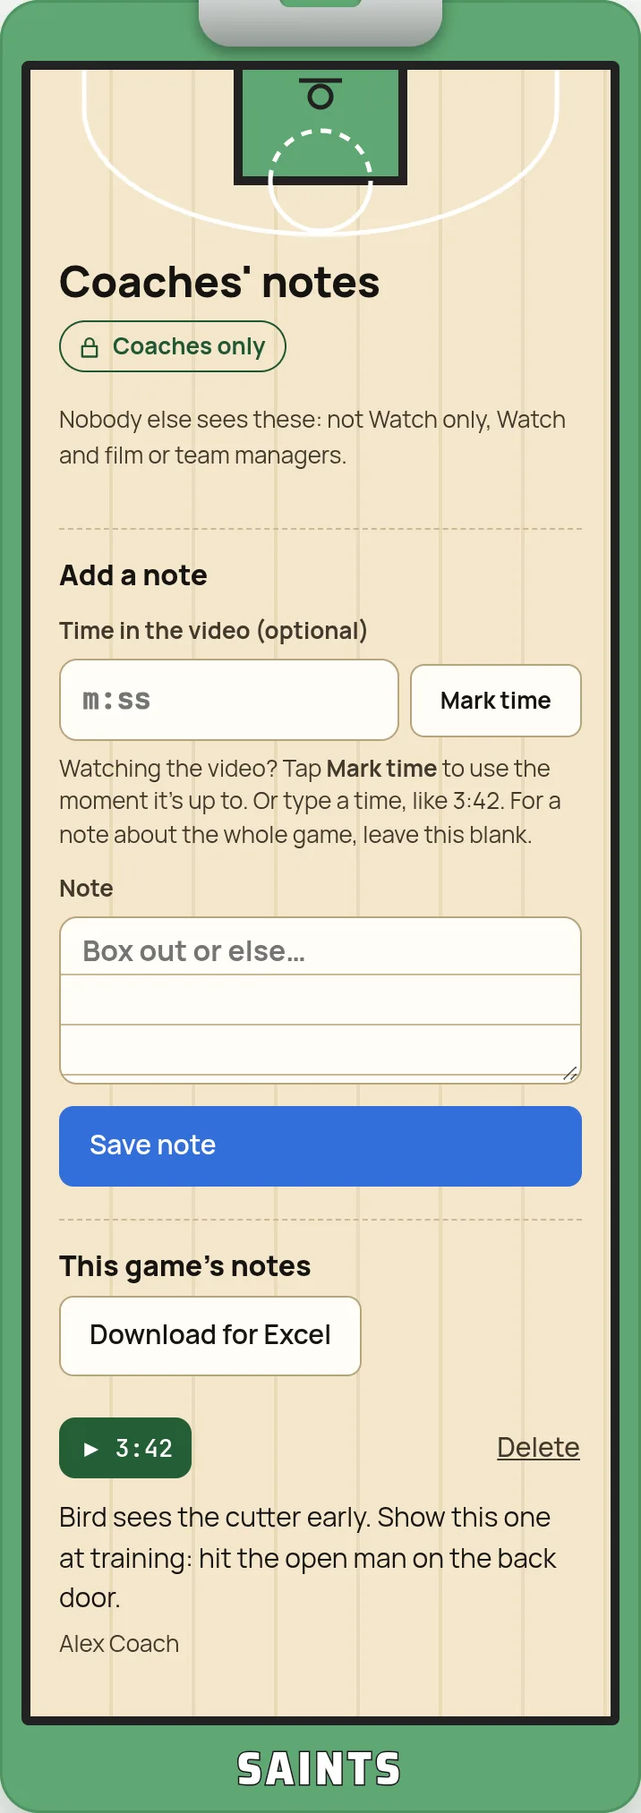
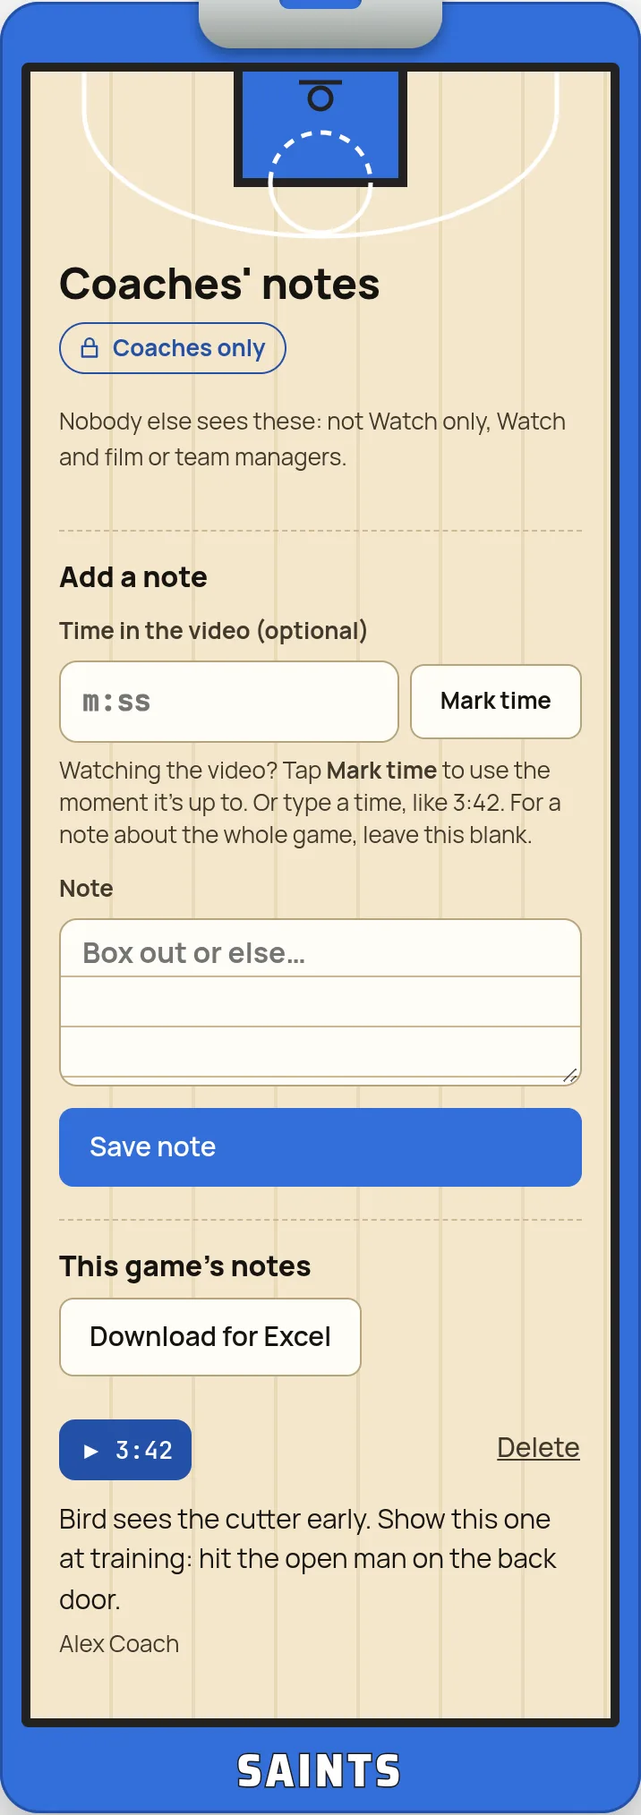
The club's colours everywhere: the coaches' clipboard, the Game Break slate, video backgrounds, admin charts and Excel exports take them from club.ts

diff --git a/public/admin.css b/public/admin.css
@@ -3,7 +3,7 @@
    panels, and one bold thing: Insights' scoreboard, in Teko (the jersey numbers' face). Loaded on admin pages only, after
    app.css, on its colour tokens, so light and dark come with them. No inline styles anywhere (the CSP). */
 
-:root{--a-amber:#F2B705;--a-spark:#7FD394;--a-radius:14px}
+:root{--a-amber:#F2B705;--a-spark:var(--club);--a-radius:14px}
 
 /* The frame: a sidebar on a computer, the page to its right; on a phone or tablet, a bar at the top. */
 body.admin{min-height:100vh;min-height:100dvh}
@@ -12,12 +12,12 @@ body.admin main.wrap{max-width:1800px;width:100%;padding-block:20px 64px;gap:20p
   position:sticky;top:env(safe-area-inset-top,0px);z-index:5}
 .adminrow{display:flex;align-items:center;gap:8px;padding:8px max(16px,env(safe-area-inset-right,0px)) 6px max(16px,env(safe-area-inset-left,0px))}
 .adminside .brand span{display:grid;line-height:1.1}
-.adminside .brand small{font-size:12px;font-weight:700;color:#cfe5d6}
+.adminside .brand small{font-size:12px;font-weight:700;color:rgba(255,255,255,.75)}
 .admintools{display:flex;align-items:center;gap:6px;margin-left:auto}
 .admintools .themebtn,.admintools .signoutbtn{margin-left:0}
 .adminnav{display:flex;gap:4px;overflow-x:auto;scrollbar-width:none;padding:2px max(12px,env(safe-area-inset-right,0px)) 10px max(12px,env(safe-area-inset-left,0px))}
 .adminnav::-webkit-scrollbar{display:none}
-.adminnav a{flex:none;display:flex;align-items:center;gap:8px;color:#E6F2EA;text-decoration:none;padding:7px 12px;border-radius:10px;font-weight:700;font-size:14.5px}
+.adminnav a{flex:none;display:flex;align-items:center;gap:8px;color:rgba(255,255,255,.9);text-decoration:none;padding:7px 12px;border-radius:10px;font-weight:700;font-size:14.5px}
 .adminnav a:hover{background:rgba(255,255,255,.1)}
 .adminnav a[aria-current="page"]{background:#fff;color:var(--bar)}
 /* Keyboard focus shows on the green: white, not the site's green ring. */
@@ -44,7 +44,7 @@ body.admin main.wrap{max-width:1800px;width:100%;padding-block:20px 64px;gap:20p
 
   /* At the sidebar's foot, as on the team pages: the switch to the phone's view, then light or dark and sign out. In the
      phone's view on a computer, back to the desktop view beside them (public/view.js keeps the choice per device). */
-  html:not([data-view="mobile"]) .adminside > .viewswitch{order:3;display:flex;align-items:center;width:100%;margin-top:auto;padding:9px 12px;border-radius:10px;color:#E6F2EA;font-weight:700;font-size:15px;line-height:1.3;text-align:left}
+  html:not([data-view="mobile"]) .adminside > .viewswitch{order:3;display:flex;align-items:center;width:100%;margin-top:auto;padding:9px 12px;border-radius:10px;color:rgba(255,255,255,.9);font-weight:700;font-size:15px;line-height:1.3;text-align:left}
   html:not([data-view="mobile"]) .adminside > .viewswitch:hover{background:rgba(255,255,255,.1)}
   html[data-view="mobile"] .admintools .viewswitch{display:inline-block}
 }
@@ -83,7 +83,7 @@ tr.past td{color:var(--muted)}
 .boards{display:grid;gap:14px;grid-template-columns:repeat(auto-fit,minmax(min(100%,320px),1fr))}
 .scoreboard{display:grid;grid-template-columns:repeat(auto-fit,minmax(130px,1fr));gap:16px 18px;align-content:start;padding:18px 22px 20px;border-radius:18px;color:#fff;
   background:radial-gradient(circle at 104% 50%,transparent 74px,rgba(255,255,255,.07) 75px 77px,transparent 78px),var(--bar)}
-.scoreboard .sbhead{grid-column:1/-1;margin:0 0 -4px;font-size:13px;font-weight:700;letter-spacing:.01em;color:#cfe5d6}
+.scoreboard .sbhead{grid-column:1/-1;margin:0 0 -4px;font-size:13px;font-weight:700;letter-spacing:.01em;color:rgba(255,255,255,.75)}
 /* On a wide screen each board's numbers sit in one row: three across, or four for a board with four. */
 @media (min-width:1400px){
   html:not([data-view="mobile"]) .boards .scoreboard{grid-template-columns:repeat(3,minmax(0,1fr));gap:16px 12px}
@@ -94,12 +94,12 @@ tr.past td{color:var(--muted)}
 .insightpair{display:grid;gap:16px;align-items:start}
 .sb{display:grid;gap:4px;min-width:0;align-content:start}
 .sb b{font-family:"Teko","Arial Narrow",sans-serif;font-weight:700;font-size:54px;line-height:.86;letter-spacing:.01em;font-variant-numeric:tabular-nums}
-.sb b small{font-size:26px;color:#cfe5d6;margin-left:3px}
-.sb>span{font-size:13.5px;font-weight:700;color:#E6F2EA}
+.sb b small{font-size:26px;color:rgba(255,255,255,.75);margin-left:3px}
+.sb>span{font-size:13.5px;font-weight:700;color:rgba(255,255,255,.9)}
 .sb .spark{display:block;width:100%;max-width:150px;height:22px;margin-top:4px}
 .sb .spark rect{fill:var(--a-spark)}
 .sb .spark rect.now{fill:#fff}
-.sb .delta{font-size:12.5px;color:#cfe5d6}
+.sb .delta{font-size:12.5px;color:rgba(255,255,255,.75)}
 @media (max-width:480px){.scoreboard{grid-template-columns:1fr 1fr;padding:14px 16px 16px;gap:14px 14px}.sb b{font-size:46px}}
 
 /* Needs attention: what's waiting for an admin, worst first, each with where it's dealt with. */
@@ -140,21 +140,21 @@ tr.past td{color:var(--muted)}
 .heat{margin:0;padding:16px;border:1px solid var(--line);border-radius:var(--a-radius);background:var(--surface);display:grid;gap:8px;min-width:0}
 .heat svg{width:100%;height:auto;display:block}
 .heat text{fill:var(--muted);font-size:9px;font-family:var(--body)}
-.heat .h0{fill:var(--bg)}.heat .h1{fill:#D3EDDA}.heat .h2{fill:#9ED4AC}.heat .h3{fill:#5DB373}.heat .h4{fill:#2A8F3D}.heat .h5{fill:#145C27}
+.heat .h0{fill:var(--bg)}.heat .h1{fill:color-mix(in srgb,var(--club) 18%,var(--bg))}.heat .h2{fill:color-mix(in srgb,var(--club) 40%,var(--bg))}.heat .h3{fill:color-mix(in srgb,var(--club) 62%,var(--bg))}.heat .h4{fill:color-mix(in srgb,var(--club) 85%,var(--bg))}.heat .h5{fill:#145C27}
 .heat g:hover rect{stroke:var(--fg);stroke-width:1}
 .heatkey{display:flex;align-items:center;gap:4px;font-size:12px;color:var(--muted)}
 .heatkey i{display:inline-block;width:14px;height:10px;border-radius:2px}
-.heatkey .h0{background:var(--bg);border:1px solid var(--line)}.heatkey .h1{background:#D3EDDA}.heatkey .h2{background:#9ED4AC}.heatkey .h3{background:#5DB373}.heatkey .h4{background:#2A8F3D}.heatkey .h5{background:#145C27}
-@media (prefers-color-scheme:dark){:root:not([data-theme="light"]) .heat .h1,:root:not([data-theme="light"]) .heatkey .h1{fill:#173D24;background:#173D24}
-  :root:not([data-theme="light"]) .heat .h2,:root:not([data-theme="light"]) .heatkey .h2{fill:#1F6334;background:#1F6334}
-  :root:not([data-theme="light"]) .heat .h3,:root:not([data-theme="light"]) .heatkey .h3{fill:#2E8C49;background:#2E8C49}
-  :root:not([data-theme="light"]) .heat .h4,:root:not([data-theme="light"]) .heatkey .h4{fill:#4DB668;background:#4DB668}
-  :root:not([data-theme="light"]) .heat .h5,:root:not([data-theme="light"]) .heatkey .h5{fill:#8FDCA2;background:#8FDCA2}}
-:root[data-theme="dark"] .heat .h1,:root[data-theme="dark"] .heatkey .h1{fill:#173D24;background:#173D24}
-:root[data-theme="dark"] .heat .h2,:root[data-theme="dark"] .heatkey .h2{fill:#1F6334;background:#1F6334}
-:root[data-theme="dark"] .heat .h3,:root[data-theme="dark"] .heatkey .h3{fill:#2E8C49;background:#2E8C49}
-:root[data-theme="dark"] .heat .h4,:root[data-theme="dark"] .heatkey .h4{fill:#4DB668;background:#4DB668}
-:root[data-theme="dark"] .heat .h5,:root[data-theme="dark"] .heatkey .h5{fill:#8FDCA2;background:#8FDCA2}
+.heatkey .h0{background:var(--bg);border:1px solid var(--line)}.heatkey .h1{background:color-mix(in srgb,var(--club) 18%,var(--bg))}.heatkey .h2{background:color-mix(in srgb,var(--club) 40%,var(--bg))}.heatkey .h3{background:color-mix(in srgb,var(--club) 62%,var(--bg))}.heatkey .h4{background:color-mix(in srgb,var(--club) 85%,var(--bg))}.heatkey .h5{background:#145C27}
+@media (prefers-color-scheme:dark){:root:not([data-theme="light"]) .heat .h1,:root:not([data-theme="light"]) .heatkey .h1{fill:color-mix(in srgb,var(--club) 22%,var(--bg));background:color-mix(in srgb,var(--club) 22%,var(--bg))}
+  :root:not([data-theme="light"]) .heat .h2,:root:not([data-theme="light"]) .heatkey .h2{fill:color-mix(in srgb,var(--club) 40%,var(--bg));background:color-mix(in srgb,var(--club) 40%,var(--bg))}
+  :root:not([data-theme="light"]) .heat .h3,:root:not([data-theme="light"]) .heatkey .h3{fill:color-mix(in srgb,var(--club) 60%,var(--bg));background:color-mix(in srgb,var(--club) 60%,var(--bg))}
+  :root:not([data-theme="light"]) .heat .h4,:root:not([data-theme="light"]) .heatkey .h4{fill:color-mix(in srgb,var(--club) 80%,var(--bg));background:color-mix(in srgb,var(--club) 80%,var(--bg))}
+  :root:not([data-theme="light"]) .heat .h5,:root:not([data-theme="light"]) .heatkey .h5{fill:color-mix(in srgb,var(--club) 100%,var(--bg));background:color-mix(in srgb,var(--club) 100%,var(--bg))}}
+:root[data-theme="dark"] .heat .h1,:root[data-theme="dark"] .heatkey .h1{fill:color-mix(in srgb,var(--club) 22%,var(--bg));background:color-mix(in srgb,var(--club) 22%,var(--bg))}
+:root[data-theme="dark"] .heat .h2,:root[data-theme="dark"] .heatkey .h2{fill:color-mix(in srgb,var(--club) 40%,var(--bg));background:color-mix(in srgb,var(--club) 40%,var(--bg))}
+:root[data-theme="dark"] .heat .h3,:root[data-theme="dark"] .heatkey .h3{fill:color-mix(in srgb,var(--club) 60%,var(--bg));background:color-mix(in srgb,var(--club) 60%,var(--bg))}
+:root[data-theme="dark"] .heat .h4,:root[data-theme="dark"] .heatkey .h4{fill:color-mix(in srgb,var(--club) 80%,var(--bg));background:color-mix(in srgb,var(--club) 80%,var(--bg))}
+:root[data-theme="dark"] .heat .h5,:root[data-theme="dark"] .heatkey .h5{fill:color-mix(in srgb,var(--club) 100%,var(--bg));background:color-mix(in srgb,var(--club) 100%,var(--bg))}
 
 /* A thin bar against a limit (a team's people, the site's), and a figure's bar in a row (Teams compared). */
 .meter{width:100%;height:6px;display:block}
@@ -356,7 +356,7 @@ textarea.msg{font-size:14px;line-height:1.5;border-style:dashed;resize:vertical}
 
 /* Costs, as cloud cost tools lay it out (dataviz skill): the kinds of cost in four hues validated together, light and
    dark (adjacent stacks: CVD and normal-vision separation pass; amber's relief is the legend and the months table). */
-:root{--k-shared:#6250D6;--k-storage:#2A8F3D;--k-viewing:#2A78D6;--k-uploads:#EDA100}
+:root{--k-shared:#6250D6;--k-storage:color-mix(in srgb,var(--club) 85%,var(--bg));--k-viewing:#2A78D6;--k-uploads:#EDA100}
 @media (prefers-color-scheme:dark){:root:not([data-theme="light"]){--k-shared:#9085E9;--k-storage:#3BA552;--k-viewing:#3987E5;--k-uploads:#C98500}}
 :root[data-theme="dark"]{--k-shared:#9085E9;--k-storage:#3BA552;--k-viewing:#3987E5;--k-uploads:#C98500}
 .k-shared{fill:var(--k-shared);background:var(--k-shared)}.k-storage{fill:var(--k-storage);background:var(--k-storage)}

diff --git a/public/app.css b/public/app.css
@@ -23,13 +23,13 @@
   --display:"Manrope",system-ui,-apple-system,"Segoe UI",sans-serif;
   --body:"Manrope",system-ui,-apple-system,"Segoe UI",sans-serif;
   --mono:"JetBrains Mono",ui-monospace,Consolas,monospace;
-  /* The coach's clipboard (notes-panel.ts): its green board, the maple court sheet, and the ink on it. */
-  --cb-board:#5FA874;--cb-edge:#4E9462;--cb-sheet:#F4E7CC;--cb-plank:#EADBBA;--cb-frame:#1C1C1C;--cb-ink:#0E0C08;--cb-muted:#3F3628;--cb-rule:#CDB993;--cb-chip:#1F5E33;--cb-green:#1A5530;--cb-field:#FFFDF7;--cb-fieldline:#B9A57F;--cb-shadow:0 14px 30px rgba(20,60,30,.28);
+  /* The coach's clipboard (notes-panel.ts): its board in the club's colour, the maple court sheet, and the ink on it. */
+  --cb-board:var(--club);--cb-edge:var(--club-ink);--cb-sheet:#F4E7CC;--cb-plank:#EADBBA;--cb-frame:#1C1C1C;--cb-ink:#0E0C08;--cb-muted:#3F3628;--cb-rule:#CDB993;--cb-chip:var(--club-ink);--cb-green:var(--club-ink);--cb-field:#FFFDF7;--cb-fieldline:#B9A57F;--cb-shadow:0 14px 30px rgba(0,0,0,.28);
 }
 @media (prefers-color-scheme:dark){:root:not([data-theme="light"]){
-  --black:#050706;--bg:#0D110E;--surface:#161C18;--fg:#ECF1ED;--muted:#9DAAA1;--line:#2A332D;--live:#F0484D;--live-deep:#B81E24;--warn-soft:#2E2610;--warn-ink:#E8C766;--cb-board:#4E9462;--cb-edge:#3D7A4F;--cb-sheet:#E6D5B1;--cb-plank:#DCC9A2;--cb-frame:#141414;--cb-ink:#0E0C08;--cb-muted:#3A3226;--cb-rule:#B9A57E;--cb-chip:#1F5E33;--cb-green:#1A5530;--cb-field:#F7F0E0;--cb-fieldline:#A8946C;--cb-shadow:0 18px 40px rgba(0,0,0,.55);color-scheme:dark}}
+  --black:#050706;--bg:#0D110E;--surface:#161C18;--fg:#ECF1ED;--muted:#9DAAA1;--line:#2A332D;--live:#F0484D;--live-deep:#B81E24;--warn-soft:#2E2610;--warn-ink:#E8C766;--cb-board:var(--club);--cb-edge:var(--club-ink);--cb-sheet:#E6D5B1;--cb-plank:#DCC9A2;--cb-frame:#141414;--cb-ink:#0E0C08;--cb-muted:#3A3226;--cb-rule:#B9A57E;--cb-chip:var(--club-ink);--cb-green:var(--club-ink);--cb-field:#F7F0E0;--cb-fieldline:#A8946C;--cb-shadow:0 18px 40px rgba(0,0,0,.55);color-scheme:dark}}
 :root[data-theme="dark"]{
-  --black:#050706;--bg:#0D110E;--surface:#161C18;--fg:#ECF1ED;--muted:#9DAAA1;--line:#2A332D;--live:#F0484D;--live-deep:#B81E24;--warn-soft:#2E2610;--warn-ink:#E8C766;--cb-board:#4E9462;--cb-edge:#3D7A4F;--cb-sheet:#E6D5B1;--cb-plank:#DCC9A2;--cb-frame:#141414;--cb-ink:#0E0C08;--cb-muted:#3A3226;--cb-rule:#B9A57E;--cb-chip:#1F5E33;--cb-green:#1A5530;--cb-field:#F7F0E0;--cb-fieldline:#A8946C;--cb-shadow:0 18px 40px rgba(0,0,0,.55);color-scheme:dark}
+  --black:#050706;--bg:#0D110E;--surface:#161C18;--fg:#ECF1ED;--muted:#9DAAA1;--line:#2A332D;--live:#F0484D;--live-deep:#B81E24;--warn-soft:#2E2610;--warn-ink:#E8C766;--cb-board:var(--club);--cb-edge:var(--club-ink);--cb-sheet:#E6D5B1;--cb-plank:#DCC9A2;--cb-frame:#141414;--cb-ink:#0E0C08;--cb-muted:#3A3226;--cb-rule:#B9A57E;--cb-chip:var(--club-ink);--cb-green:var(--club-ink);--cb-field:#F7F0E0;--cb-fieldline:#A8946C;--cb-shadow:0 18px 40px rgba(0,0,0,.55);color-scheme:dark}
 
 *{box-sizing:border-box}
 body{background:var(--bg);color:var(--fg);font-family:var(--body);font-size:15px;line-height:1.5}
@@ -73,7 +73,7 @@ input[type=email],input[type=text],input[type=url],input[type=date],input[type=n
 .games{display:grid;gap:10px}
 .game{display:grid;grid-template-columns:150px 1fr auto;gap:16px;align-items:center;background:var(--surface);border:1px solid var(--line);border-radius:12px;padding:10px;cursor:pointer;text-align:left;width:100%}
 .game:hover{border-color:var(--club)}
-.thumb{aspect-ratio:16/9;border-radius:8px;position:relative;overflow:hidden;background:#1d4a2c;max-width:100%}
+.thumb{aspect-ratio:16/9;border-radius:8px;position:relative;overflow:hidden;background:var(--bar);max-width:100%}
 .thumb::before{content:"";position:absolute;inset:18% 30%;border:2px solid rgba(255,255,255,.35);border-radius:50%}
 .thumb::after{content:"";position:absolute;left:50%;top:0;bottom:0;border-left:2px solid rgba(255,255,255,.35)}
 .thumb .dur{position:absolute;right:6px;bottom:6px;background:rgba(0,0,0,.75);color:#fff;font-family:var(--mono);font-size:11px;padding:1px 5px;border-radius:3px;z-index:1}
@@ -92,7 +92,7 @@ input[type=email],input[type=text],input[type=url],input[type=date],input[type=n
 
 /* Watch */
 .watch{display:grid;grid-template-columns:minmax(0,1fr) 300px;gap:22px;align-items:start}
-.player{aspect-ratio:16/9;max-width:100%;background:#123a22;border-radius:12px;position:relative;overflow:hidden;display:grid;place-items:center}
+.player{aspect-ratio:16/9;max-width:100%;background:var(--bar);border-radius:12px;position:relative;overflow:hidden;display:grid;place-items:center}
 .player .courtimg{position:absolute;inset:0;width:100%;height:100%;object-fit:cover}
 .side{display:grid;gap:14px}
 .side .panel{display:grid;gap:12px}
@@ -167,7 +167,7 @@ img{max-width:100%}
 .brand:hover .switchteam,.brand:focus-visible .switchteam{background:rgba(255,255,255,.26)}
 /* A small phone: no wider than the team's name, so Help, light or dark and sign out stay on its line. */
 @media (max-width:389px){.switchteam{font-size:11.5px;padding:1px 7px 1px 5px;gap:3px}.switchteam .ico{width:12px;height:12px}}
-.appnav a{color:#eaf5ed;padding:6px 10px;border-radius:6px;font-weight:600;font-size:14px;text-decoration:none}
+.appnav a{color:rgba(255,255,255,.92);padding:6px 10px;border-radius:6px;font-weight:600;font-size:14px;text-decoration:none}
 .appnav a[aria-current="page"]{color:#fff;background:rgba(255,255,255,.16)}
 .appnav a.big{flex:0 0 200px;display:inline-flex;align-items:center;justify-content:center;gap:8px;font-family:var(--display);font-size:17px;font-weight:800;padding:10px 20px;border-radius:10px;border:2px solid rgba(255,255,255,.4);color:#fff;min-height:48px}
 .appnav a.big .ico{width:22px;height:22px;flex:none}
@@ -253,7 +253,7 @@ fieldset.clock select{width:auto}
 details.panel>summary.eyebrow{cursor:pointer}
 details.panel[open]>summary.eyebrow{margin-bottom:10px}
 .btn.danger{background:var(--live);border-color:var(--live);color:#fff}
-/* Coaches' private notes: the coach's clipboard (notes-panel.ts), a green board and its clip holding a maple court
+/* Coaches' private notes: the coach's clipboard (notes-panel.ts), a board in the club's colour and its clip holding a maple court
    sheet. The sheet stays light in dark mode, as a real one does, so its fields are light too. */
 .clipboard{position:relative;margin-top:16px;padding:34px 12px 10px;border-radius:22px;background:var(--cb-board);box-shadow:var(--cb-shadow),inset 0 0 0 1.5px var(--cb-edge);color:var(--cb-ink);color-scheme:light}
 .clipboard::before{content:"";position:absolute;top:-16px;left:50%;transform:translateX(-50%);width:136px;height:42px;border-radius:12px 12px 18px 18px;background:linear-gradient(180deg,#F1F3F2,#959C98);box-shadow:0 4px 8px rgba(0,0,0,.35),inset 0 1px 0 rgba(255,255,255,.6)}
@@ -485,14 +485,14 @@ a.btn.watchbtn:hover{opacity:.88}
 .appnav a.big.watch[aria-current="page"]{box-shadow:inset 0 0 0 3px var(--club)}
 /* Go live from this page: camera preview, and the same in full screen (landscape) with the controls along the bottom. */
 .player video{position:absolute;inset:0;width:100%;height:100%;object-fit:contain;background:#000}
-.live-wait{position:absolute;inset:0;display:grid;place-content:center;gap:6px;text-align:center;padding:16px;background:#0A4A23;color:#fff}
+.live-wait{position:absolute;inset:0;display:grid;place-content:center;gap:6px;text-align:center;padding:16px;background:var(--bar);color:#fff}
 .live-wait b{font-size:20px}
 .live-wait span{font-size:14px;opacity:.85}
 /* Full time, once End game is tapped: the Game break card's look (golive-slate.js) as a page, sized by the player's
    width so it reads the same on a phone and a TV. */
 .player:has(.live-over){container-type:inline-size}
 .live-over{position:absolute;inset:0;display:grid;place-content:center;justify-items:center;text-align:center;color:#fff;padding:3cqw;background:radial-gradient(ellipse at center,#0D5A2B 0,#062E16 100%)}
-.live-over .court{position:absolute;inset:0;width:100%;height:100%;fill:none;stroke:#3DAA4A;stroke-width:9;stroke-linecap:round}
+.live-over .court{position:absolute;inset:0;width:100%;height:100%;fill:none;stroke:var(--club);stroke-width:9;stroke-linecap:round}
 .live-over .dash{stroke-dasharray:24 20}
 .live-over>*{position:relative}
 .live-over .over-title{font-family:"Saira Semi Condensed",var(--display);font-weight:800;font-size:9cqw;line-height:1;letter-spacing:.02em;text-transform:uppercase}
@@ -634,7 +634,7 @@ fieldset.players label{padding:6px 10px;font-size:14px}
    strip with no links (a family's, holding only the switch) shows only there too. */
 .appnav .navsub .ico{display:none}
 .appnav .navsub:not(:has(a)){display:none}
-.viewswitch{display:none;background:none;border:0;cursor:pointer;color:#eaf5ed;padding:4px 10px;border-radius:6px;font-weight:600;font-size:12.5px;line-height:1.5}
+.viewswitch{display:none;background:none;border:0;cursor:pointer;color:rgba(255,255,255,.92);padding:4px 10px;border-radius:6px;font-weight:600;font-size:12.5px;line-height:1.5}
 .viewswitch:hover{background:rgba(255,255,255,.16)}
 .appnav{margin-left:0;flex-basis:100%}
 /* Pull down to refresh, in the Home Screen app (pull-refresh.js): a pill below the top of the screen. */
@@ -687,7 +687,7 @@ fieldset.players label{padding:6px 10px;font-size:14px}
 .m-dialog{display:grid;gap:12px;background:var(--surface);border-radius:16px;padding:14px}
 .m-actions{display:flex;justify-content:flex-end;gap:4px}
 /* Go live's camera screen */
-.m-cam{position:relative;aspect-ratio:16/9;max-width:100%;border-radius:10px;overflow:hidden;background:#123a22;color:#fff;display:grid;align-content:end}
+.m-cam{position:relative;aspect-ratio:16/9;max-width:100%;border-radius:10px;overflow:hidden;background:var(--bar);color:#fff;display:grid;align-content:end}
 .m-cam::before{content:"";position:absolute;inset:22% 34%;border:2px solid rgba(255,255,255,.3);border-radius:50%}
 .m-cam::after{content:"";position:absolute;left:50%;top:0;bottom:0;border-left:2px solid rgba(255,255,255,.3)}
 .m-ctl{position:relative;z-index:1;display:flex;flex-wrap:wrap;gap:6px;align-items:center;padding:8px;background:linear-gradient(transparent,rgba(0,0,0,.8));font-size:11.5px}

diff --git a/src/shared/xlsx.ts b/src/shared/xlsx.ts
@@ -1,7 +1,8 @@
+import { CLUB } from "../club.ts";
 import { zip } from "./zip.ts";
 
 // An Excel workbook (.xlsx) of one sheet or several, in the club's colours: a header row in the club's deep colour in white that stays
-// put when scrolling, rows banded in light green, set column widths, and cells that wrap (a cell can hold several
+// put when scrolling, rows banded in its pale tint, set column widths, and cells that wrap (a cell can hold several
 // lines); a title and lines under it above the table, if the sheet has them. A column can hold numbers, kept as numbers
 // so Excel can add them up, shown as dollars, a count or a percentage. Written by hand, as a few XML files in a
 // zip, so the Worker needs no spreadsheet library.
@@ -37,23 +38,26 @@ const each = (n: number, f: (i: number) => string) => Array.from({ length: n }, 
 const contentTypes = (n: number) => `${XML}<Types xmlns="http://schemas.openxmlformats.org/package/2006/content-types"><Default Extension="rels" ContentType="application/vnd.openxmlformats-package.relationships+xml"/><Default Extension="xml" ContentType="application/xml"/><Override PartName="/xl/workbook.xml" ContentType="${OOXML}.sheet.main+xml"/>${each(n, (i) => `<Override PartName="/xl/worksheets/sheet${i}.xml" ContentType="${OOXML}.worksheet+xml"/>`)}<Override PartName="/xl/styles.xml" ContentType="${OOXML}.styles+xml"/></Types>`;
 const PACKAGE_RELS = `${XML}<Relationships xmlns="${PKG}"><Relationship Id="rId1" Type="${REL}/officeDocument" Target="xl/workbook.xml"/></Relationships>`;
 const workbookRels = (n: number) => `${XML}<Relationships xmlns="${PKG}">${each(n, (i) => `<Relationship Id="rId${i}" Type="${REL}/worksheet" Target="worksheets/sheet${i}.xml"/>`)}<Relationship Id="rId${n + 1}" Type="${REL}/styles" Target="styles.xml"/></Relationships>`;
-// The site's colours (public/app.css): bottle green, button green, ink, muted, and a light green for banding.
-const BOTTLE = "FF0A4A23", GREEN = "FF2A8F3D", INK = "FF121513", MUTED = "FF5D6862", BAND = "FFEEF6F0", EDGE = "FFD5E2D9";
+// The site's colours: the club's deep colour for the header row, its bright one for the tab, ink, muted, and its pale tint
+// for banding and edges (src/club.ts), read when a workbook is made.
+const argb = (hex: string) => `FF${hex.replace("#", "").toUpperCase()}`;
+const BOTTLE = () => argb(CLUB.colors.light.bar), GREEN = () => argb(CLUB.colors.light.button), BAND = () => argb(CLUB.colors.light.soft), EDGE = () => argb(CLUB.colors.light.soft);
+const INK = "FF121513", MUTED = "FF5D6862";
 const font = (o: { bold?: boolean; size?: number; color: string }) => `<font>${o.bold ? "<b/>" : ""}<sz val="${o.size ?? 11}"/><color rgb="${o.color}"/><name val="Calibri"/></font>`;
 const solid = (rgb: string) => `<fill><patternFill patternType="solid"><fgColor rgb="${rgb}"/><bgColor indexed="64"/></patternFill></fill>`;
-const edge = `<${["left", "right", "top", "bottom"].map((side) => `${side} style="thin"><color rgb="${EDGE}"/></${side}`).join("><")}><diagonal/>`;
+const edge = () => `<${["left", "right", "top", "bottom"].map((side) => `${side} style="thin"><color rgb="${EDGE()}"/></${side}`).join("><")}><diagonal/>`;
 const xf = (fontId: number, fillId: number, borderId: number, align = "", numFmt = 0) =>
 	`<xf numFmtId="${numFmt}" fontId="${fontId}" fillId="${fillId}" borderId="${borderId}" xfId="0" applyFont="1" applyFill="1" applyBorder="1" applyAlignment="1"${numFmt ? ' applyNumberFormat="1"' : ""}>${align}</xf>`;
 const TOP = '<alignment vertical="top" wrapText="1"/>';
 // Number formats: 164 dollars (its own), 3 a count, 9 a percentage and 4 two places (Excel's built-in).
 const FORMATS: Record<NumberFormat, number> = { money: 164, count: 3, percent: 9, decimal: 4 };
-// Cell styles: 0 plain, 1 the header (white on bottle green), 2 and 3 the rows (plain, then banded), 4 the title, 5 a
+// Cell styles: 0 plain, 1 the header (white on the club's deep colour), 2 and 3 the rows (plain, then banded), 4 the title, 5 a
 // line under it; then a pair (plain, banded) for each number format: 6 and 7 dollars, 8 and 9 a count, 10 and 11 a
 // percentage, 12 and 13 two places.
 const NUMBER_STYLE: Record<NumberFormat, number> = { money: 6, count: 8, percent: 10, decimal: 12 };
-const STYLES = `${XML}<styleSheet xmlns="${MAIN}"><numFmts count="1"><numFmt numFmtId="164" formatCode="&quot;$&quot;#,##0.00"/></numFmts><fonts count="4">${font({ color: INK })}${font({ bold: true, color: "FFFFFFFF" })}${font({ bold: true, size: 16, color: BOTTLE })}${font({ color: MUTED })}</fonts>`
-	+ `<fills count="4"><fill><patternFill patternType="none"/></fill><fill><patternFill patternType="gray125"/></fill>${solid(BOTTLE)}${solid(BAND)}</fills>`
-	+ `<borders count="2"><border><left/><right/><top/><bottom/><diagonal/></border><border>${edge}</border></borders>`
+const styles = () => `${XML}<styleSheet xmlns="${MAIN}"><numFmts count="1"><numFmt numFmtId="164" formatCode="&quot;$&quot;#,##0.00"/></numFmts><fonts count="4">${font({ color: INK })}${font({ bold: true, color: "FFFFFFFF" })}${font({ bold: true, size: 16, color: BOTTLE() })}${font({ color: MUTED })}</fonts>`
+	+ `<fills count="4"><fill><patternFill patternType="none"/></fill><fill><patternFill patternType="gray125"/></fill>${solid(BOTTLE())}${solid(BAND())}</fills>`
+	+ `<borders count="2"><border><left/><right/><top/><bottom/><diagonal/></border><border>${edge()}</border></borders>`
 	+ `<cellStyleXfs count="1"><xf numFmtId="0" fontId="0" fillId="0" borderId="0"/></cellStyleXfs><cellXfs count="14"><xf numFmtId="0" fontId="0" fillId="0" borderId="0" xfId="0"/>`
 	+ `${xf(1, 2, 1, '<alignment vertical="center" wrapText="1"/>')}${xf(0, 0, 1, TOP)}${xf(0, 3, 1, TOP)}${xf(2, 0, 0)}${xf(3, 0, 0)}`
 	+ `${(["money", "count", "percent", "decimal"] as const).map((f) => xf(0, 0, 1, TOP, FORMATS[f]) + xf(0, 3, 1, TOP, FORMATS[f])).join("")}</cellXfs>`
@@ -80,7 +84,7 @@ function worksheet(sheet: Sheet): string {
 	const across = column(sheet.columns.length - 1);
 	const merges = above.length ? `<mergeCells count="${above.length}">${above.map((_, i) => `<mergeCell ref="A${i + 1}:${across}${i + 1}"/>`).join("")}</mergeCells>` : "";
 	const body = sheet.rows.map((r, i) => row(r, head + 1 + i, i % 2 ? 3 : 2)).join("");
-	return `${XML}<worksheet xmlns="${MAIN}"><sheetPr><tabColor rgb="${GREEN}"/><pageSetUpPr fitToPage="1"/></sheetPr><sheetViews><sheetView workbookViewId="0"><pane ySplit="${head}" topLeftCell="A${head + 1}" activePane="bottomLeft" state="frozen"/></sheetView></sheetViews>`
+	return `${XML}<worksheet xmlns="${MAIN}"><sheetPr><tabColor rgb="${GREEN()}"/><pageSetUpPr fitToPage="1"/></sheetPr><sheetViews><sheetView workbookViewId="0"><pane ySplit="${head}" topLeftCell="A${head + 1}" activePane="bottomLeft" state="frozen"/></sheetView></sheetViews>`
 		+ `<cols>${cols}</cols><sheetData>${top}${row(sheet.columns.map((c) => c.title), head, 1)}${body}</sheetData>${merges}${PRINT}</worksheet>`;
 }
 
@@ -91,7 +95,7 @@ export function xlsxWorkbook(sheets: Sheet[]): Uint8Array {
 	return zip([
 		{ name: "[Content_Types].xml", data: enc.encode(contentTypes(n)) }, { name: "_rels/.rels", data: enc.encode(PACKAGE_RELS) },
 		{ name: "xl/workbook.xml", data: enc.encode(workbook) }, { name: "xl/_rels/workbook.xml.rels", data: enc.encode(workbookRels(n)) },
-		{ name: "xl/styles.xml", data: enc.encode(STYLES) }, ...sheets.map((s, i) => ({ name: `xl/worksheets/sheet${i + 1}.xml`, data: enc.encode(worksheet(s)) })),
+		{ name: "xl/styles.xml", data: enc.encode(styles()) }, ...sheets.map((s, i) => ({ name: `xl/worksheets/sheet${i + 1}.xml`, data: enc.encode(worksheet(s)) })),
 	]);
 }
 

diff --git a/public/desktop.css b/public/desktop.css
@@ -36,13 +36,13 @@
   html:not([data-view="mobile"]) body.desk .appnav .navmain,html:not([data-view="mobile"]) body.desk .appnav .navgrey{display:contents}
   html:not([data-view="mobile"]) body.desk .appnav a,html:not([data-view="mobile"]) body.desk .appnav a.big,html:not([data-view="mobile"]) body.desk .appnav a.big.up,html:not([data-view="mobile"]) body.desk .appnav a.big.watch,html:not([data-view="mobile"]) body.desk .appnav a.big.live,html:not([data-view="mobile"]) body.desk .appnav a.big.grey{
     flex:none;display:flex;align-items:center;justify-content:flex-start;gap:10px;min-height:0;width:100%;padding:9px 12px;border:0;border-radius:10px;
-    background:none;box-shadow:none;color:#E6F2EA;font-family:var(--body);font-weight:700;font-size:15px;line-height:1.3;text-align:left;text-decoration:none}
+    background:none;box-shadow:none;color:rgba(255,255,255,.9);font-family:var(--body);font-weight:700;font-size:15px;line-height:1.3;text-align:left;text-decoration:none}
   html:not([data-view="mobile"]) body.desk .appnav a:hover{background:rgba(255,255,255,.1)}
   html:not([data-view="mobile"]) body.desk .appnav a[aria-current="page"],html:not([data-view="mobile"]) body.desk .appnav a.big[aria-current="page"]{background:#fff;color:var(--bar);box-shadow:none}
   html:not([data-view="mobile"]) body.desk .appnav a .ico,html:not([data-view="mobile"]) body.desk .appnav a.big .ico{width:18px;height:18px;flex:none}
   html:not([data-view="mobile"]) body.desk .appnav a.live .ico{color:#FF8A8E}
   html:not([data-view="mobile"]) body.desk .appnav a.live[aria-current="page"] .ico{color:var(--live)}
-  html:not([data-view="mobile"]) body.desk .appnav a.up .ico{color:#7FD394}
+  html:not([data-view="mobile"]) body.desk .appnav a.up .ico{color:var(--club-soft)}
   html:not([data-view="mobile"]) body.desk .appnav a.up[aria-current="page"] .ico{color:var(--club)}
   /* The strip's links (a team manager's own, and an admin's), after a thin line (no heading). */
   html:not([data-view="mobile"]) body.desk .appnav .navsub{display:flex;flex-direction:column;gap:2px;flex-basis:auto;width:100%;border-top:1px solid rgba(255,255,255,.14);padding-top:12px;margin-top:10px}
@@ -60,7 +60,7 @@
   html:not([data-view="mobile"]) body.desk .faq,html:not([data-view="mobile"]) body.desk .duty-week,html:not([data-view="mobile"]) body.desk #families,html:not([data-view="mobile"]) body.desk #people,html:not([data-view="mobile"]) body.desk #notes,html:not([data-view="mobile"]) body.desk #confirm,html:not([data-view="mobile"]) body.desk #removals,html:not([data-view="mobile"]) body.desk .photogrid a,html:not([data-view="mobile"]) body.desk .helpgroup{scroll-margin-top:24px}
 
   /* The view switch: on a desktop screen, and only there, the one button that applies to the view now showing. */
-  html:not([data-view="mobile"]) body.desk .viewswitch[data-view-to="mobile"]{grid-area:view;align-self:end;display:flex;align-items:center;gap:10px;width:100%;padding:9px 12px;border-radius:10px;color:#E6F2EA;font-weight:700;font-size:15px;line-height:1.3;text-align:left}
+  html:not([data-view="mobile"]) body.desk .viewswitch[data-view-to="mobile"]{grid-area:view;align-self:end;display:flex;align-items:center;gap:10px;width:100%;padding:9px 12px;border-radius:10px;color:rgba(255,255,255,.9);font-weight:700;font-size:15px;line-height:1.3;text-align:left}
   html:not([data-view="mobile"]) body.desk .viewswitch[data-view-to="mobile"]:hover{background:rgba(255,255,255,.1)}
   html[data-view="mobile"] body.desk .viewswitch[data-view-to="desktop"]{display:inline-block}
   /* A family's strip holds only that button, so it shows here (app.css hides a strip with no links). */

diff --git a/public/golive-slate.js b/public/golive-slate.js
@@ -1,17 +1,19 @@
-// Go live, paused (half-time, say): the picture families see instead of the camera. A Game Break card on bottle green
-// with court lines, the club's logo and "Live stream will resume shortly", redrawn every second so
+// Go live, paused (half-time, say): the picture families see instead of the camera. A Game Break card in the club's
+// deep colour with court lines in its bright one, the club's logo and "Live stream will resume shortly", redrawn every second so
 // the live player knows it's still going.
 const W = 1280, H = 720;
 
 // Loaded with the page, so they're ready by half-time (until then the card is drawn without them, and fixed a second later).
 const head = Object.assign(new Image(), { src: "/club-mark.webp", onerror: () => console.warn("game break: the club's logo didn't load") });
+// The club's colours, from the stylesheet's tokens (club.css); the fallbacks are only for a page without them.
+const token = (name, fallback) => (globalThis.document ? getComputedStyle(document.documentElement).getPropertyValue(name).trim() : "") || fallback;
 const TITLE = '800 116px "Saira Semi Condensed", system-ui, sans-serif';
 const LINE = "700 46px Manrope, system-ui, sans-serif";
 for (const font of [TITLE, LINE]) globalThis.document?.fonts?.load(font).catch((err) => console.warn(`game break: font: ${err}`));
 
 /** Part of a court: the three-point line off to the left, the key and its free-throw circle in the top right. */
 function court(ctx) {
-	ctx.strokeStyle = "#3DAA4A";
+	ctx.strokeStyle = token("--club", "#2F6FDB");
 	ctx.lineWidth = 9;
 	ctx.lineCap = "round";
 	ctx.beginPath();
@@ -30,10 +32,12 @@ function court(ctx) {
 }
 
 function draw(ctx) {
-	const bg = ctx.createRadialGradient(W / 2, H / 2, 80, W / 2, H / 2, 820);
-	bg.addColorStop(0, "#0D5A2B");
-	bg.addColorStop(1, "#062E16");
-	ctx.fillStyle = bg;
+	ctx.fillStyle = token("--bar", "#14274E");
+	ctx.fillRect(0, 0, W, H);
+	const shade = ctx.createRadialGradient(W / 2, H / 2, 80, W / 2, H / 2, 820);
+	shade.addColorStop(0, "rgba(0,0,0,0)");
+	shade.addColorStop(1, "rgba(0,0,0,.55)");
+	ctx.fillStyle = shade;
 	ctx.fillRect(0, 0, W, H);
 	court(ctx);
 	ctx.fillStyle = "#fff";

diff --git a/tests/shared/xlsx.test.ts b/tests/shared/xlsx.test.ts
@@ -20,16 +20,16 @@ describe("xlsx: one sheet Excel opens", () => {
 		expect(sheet).toContain("vs Lakeside &amp; Co &lt;A&gt;\nSat 31 Oct");
 		expect(sheetRows(file)).toEqual([["Week of", "Game"], ["Mon 26 Oct 2026", "Fri 30 Oct, 6:40pm · vs Lakeside & Co <A>\nSat 31 Oct"], ["Mon 2 Nov 2026", "bell gone"]]);
 	});
-	it("is in the Saints' colours: a bottle-green header row in white, rows banded in light green, a green tab", () => {
+	it("is in the Saints' colours from src/club.ts: a header row in the deep colour in white, rows banded in the pale tint, a tab in the bright one", () => {
 		const file = xlsxFile({ name: "x", columns: [{ title: "A", width: 10 }], rows: [["one"], ["two"], ["three"]] });
 		const parts = unzip(file);
 		const text = (name: string) => new TextDecoder().decode(parts.get(name)!.data);
 		const styles = text("xl/styles.xml");
-		expect(styles).toContain('<fgColor rgb="FF0A4A23"/>');
+		expect(styles).toContain('<fgColor rgb="FF14274E"/>');
 		expect(styles).toContain('<font><b/><sz val="11"/><color rgb="FFFFFFFF"/><name val="Calibri"/></font>');
-		expect(styles).toContain('<fgColor rgb="FFEEF6F0"/>');
+		expect(styles).toContain('<fgColor rgb="FFE4ECFB"/>');
 		const sheet = text("xl/worksheets/sheet1.xml");
-		expect(sheet).toContain('<sheetPr><tabColor rgb="FF2A8F3D"/><pageSetUpPr fitToPage="1"/></sheetPr>');
+		expect(sheet).toContain('<sheetPr><tabColor rgb="FF2F6FDB"/><pageSetUpPr fitToPage="1"/></sheetPr>');
 		// Printed across one A4 page's width, landscape.
 		expect(sheet).toContain('<pageSetup paperSize="9" orientation="landscape" fitToWidth="1" fitToHeight="0"/></worksheet>');
 		// Banded: the rows take turns, plain then light green.

diff --git a/public/docs.css b/public/docs.css
@@ -107,13 +107,13 @@ body.admin .docs-table th[scope="row"]{white-space:normal;color:var(--fg);font-s
 .k-person rect{stroke:var(--fg)}
 .k-edge rect{fill:var(--warn-soft);stroke:var(--warn-ink)}
 .k-worker rect{fill:var(--bar);stroke:var(--club)}
-.k-worker .dg-t{fill:#fff}.k-worker .dg-s{fill:#CFE5D6}
+.k-worker .dg-t{fill:#fff}.k-worker .dg-s{fill:rgba(255,255,255,.78)}
 .k-store rect{fill:var(--club-soft);stroke:var(--club)}
 .k-service rect{stroke:var(--club)}
 .k-job rect{fill:var(--bg);stroke:var(--muted);stroke-dasharray:6 4}
 .k-stop rect{stroke:var(--live)}.k-stop .dg-t{fill:var(--live)}
 .k-done rect{fill:var(--club);stroke:var(--club)}
-.k-done .dg-t{fill:#fff}.k-done .dg-s{fill:#E3F3E8}
+.k-done .dg-t{fill:#fff}.k-done .dg-s{fill:rgba(255,255,255,.85)}
 
 .dg-arrow{fill:none;stroke:var(--muted);stroke-width:1.6}
 .dg-arrow.dash{stroke:var(--club);stroke-dasharray:6 4}

diff --git a/src/features/videos/views/live-player.ts b/src/features/videos/views/live-player.ts
@@ -33,7 +33,7 @@ function appPlayer(player: string, isLive: boolean): SafeHtml {
 }
 
 export function livePlayer(live: LiveView): SafeHtml {
-	// Full time: the Game break card's look (bottle green, court lines, the club's logo), so the game ends as it paused.
+	// Full time: the Game break card's look (the club's deep colour, court lines, the club's logo), so the game ends as it paused.
 	if (live.ended) {
 		return html`<div class="player"><div class="live-over" role="status">${COURT}<span class="over-title">Full time</span><img src="/club-mark.webp" alt=""><b>The live stream has ended</b><span class="over-note">It's being saved and will be ready to watch here in about 20 to 25 minutes.</span></div></div>`;
 	}

diff --git a/src/features/admin/views/admin-layout.ts b/src/features/admin/views/admin-layout.ts
@@ -1,5 +1,5 @@
 import { CLUB } from "../../../club.ts";
-// The admin area's frame (a landing page, Insights first, more modern): on a computer a bottle-green
+// The admin area's frame (a landing page, Insights first, more modern): on a computer a sidebar in the club's deep colour, a
 // sidebar, on a phone one row at the top with the sections in a row that scrolls sideways (admin.css, admin.js). Insights
 // shows alerts that aren't ok and Support tickets waiting; light or dark and sign out stay at hand (no team name).
 import type { AdminFrame } from "../../../app/admin-router.ts";

diff --git a/CHANGELOG.md b/CHANGELOG.md
@@ -10,6 +10,7 @@ Builds) sends the top line, in plain words, as its message.
 
 ## 11 Nov 2026
 
+- [Fix] **Look:** Fixed an issue where the coaches' clipboard, the Game Break card, video backgrounds, the admin charts and the Excel exports kept fixed greens: they now take the club's colours from src/club.ts.
 - [Enhancement] **Roster:** The match day message names the club's own uniforms: team managers pick one and the message says to pack the other, or a club with a reversible singlet gets just the one and no choice.
 - [Enhancement] **Help:** Every screenshot now shows the example club's pages, the squad is named after the 1992 Dream Team, Safari's bars are drawn rather than photographed, and the AI camera page says XbotGo and Trackd are two examples of many as they stood at the time of writing.
 - [Feature] **The site:** Courtside's first release: private game video and photos for a basketball club's teams, live streaming from a phone's browser, highlight clips, the fixture, the roster and an admin area, all on Cloudflare.
